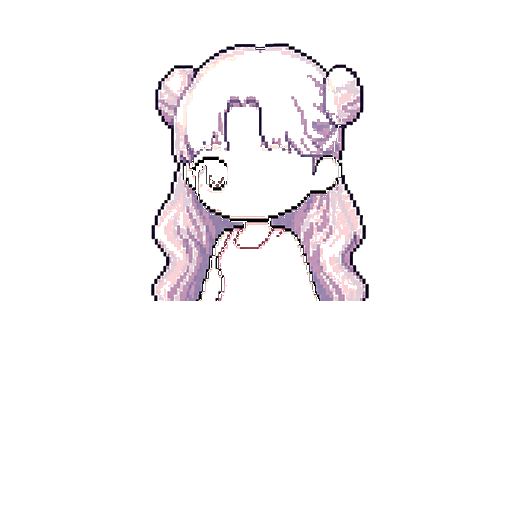
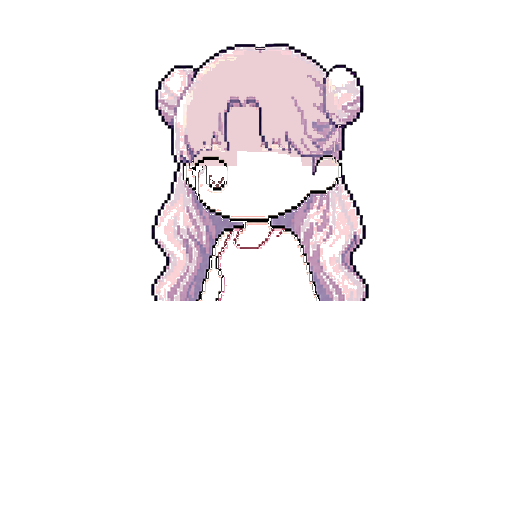
분홍 웨이브 머리 진짜 원인 수정 + 자리표에 펫 표시
- 원인: 이 머리는 윤곽선·잔머리만 그려진 선화라 내부가 비어 있었고,
  밝은 두피가 비쳐서 분홍 머리처럼 보이던 것. 피부를 어둡게 하면 두피색이 그대로 드러남.
  (앞선 매트 염색 끄기 수정으론 고쳐질 수 없는 문제였음)
- 해결: 머리 이미지의 빈 두피 영역을 머리 고유색으로 채움. 앞머리 선을 따라 채워
  기본 피부에서는 기존과 동일하게 보이고, 어두운 피부에서도 분홍이 유지됨
- 자리표(첫 화면) 아바타에도 펫 레이어 추가 (아바타 화면에만 있던 누락 수정)

Changed region(s): [[0.3438, 0.0938, 0.6562, 0.3438]]

diff --git a/index.js b/index.js
@@ -276,11 +276,13 @@ function deskAvatarHtml(studentIdx) {
   const bgImg = layers.background ? `<img class="desk-bg" src="${layers.background}" alt="">` : '';
   const overlayImg = layers.overlay ? `<img src="${layers.overlay}" alt="">` : '';
   const hairImg = layers.hair ? `<img class="desk-hair" src="${layers.hair}" alt="">` : '';
+  const petImg = layers.pet ? `<img class="desk-pet" src="${layers.pet}" alt="">` : '';
   return `<div class="desk-avatar" data-idx="${studentIdx}" title="내 아바타 꾸미기">
     ${bgImg}
     <img class="desk-base" src="${layers.base}" alt="">
     ${overlayImg}
     ${hairImg}
+    ${petImg}
   </div>`;
 }
 

diff --git a/index.css b/index.css
@@ -232,6 +232,14 @@
     object-fit: contain;
   }
   .desk-avatar img.desk-bg { object-fit: cover; z-index: 0; }
+  /* 펫: 자리표 카드에서도 발치 왼쪽에 작게 */
+  .desk-avatar img.desk-pet {
+    top: auto; left: 3%;
+    bottom: 5%;
+    width: 36%; height: 36%;
+    object-fit: contain;
+    z-index: 4;
+  }
   .desk-avatar:hover { filter: brightness(1.06); }
   .desk-avatar:active { transform: scale(0.97); }
   .desk-avatar-empty {
